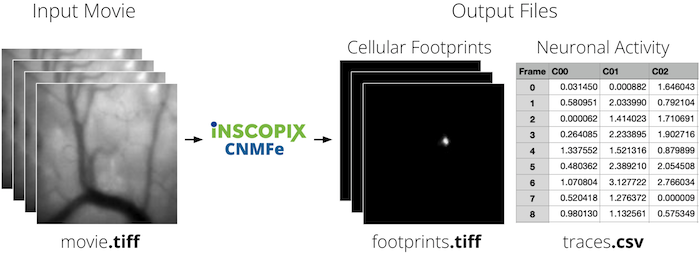
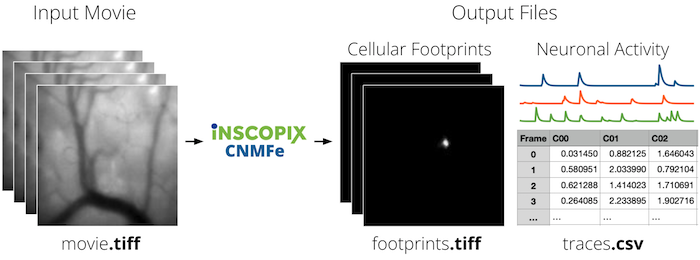
DPD-152 add traces to cnmfe workflow image, add link to notebook

diff --git a/README.md b/README.md
@@ -15,7 +15,6 @@ Inscopix CNMFe can be installed directly into your Python environment using the 
 These commands assume you have pre-installed [Anaconda](https://www.anaconda.com/products/individual), which can be used to create and manage Python environments.
 Note that Inscopix CNMFe is currently available only for Python version 3.6 or higher on 64-bit machines,
 with the exception of Python 3.10 on Windows which isn't compatible yet.
-A demo Jupyter Notebook that runs Inscopix CNMFe on a small movie and displays spatial footprints and temporal traces side by side is also provided.
 
 ```
 conda create -n inscopix-cnmfe python=3.9
@@ -51,6 +50,10 @@ inscopix_cnmfe.run_cnmfe(
 	trace_output_units=1
 )
 ```
+
+#### Example Notebook
+A demo Jupyter Notebook that runs Inscopix CNMFe on a small movie and displays spatial footprints 
+and temporal traces side by side is available [here](Inscopix_CNMFe_Demo.ipynb).
 
 ### Using Docker
 
